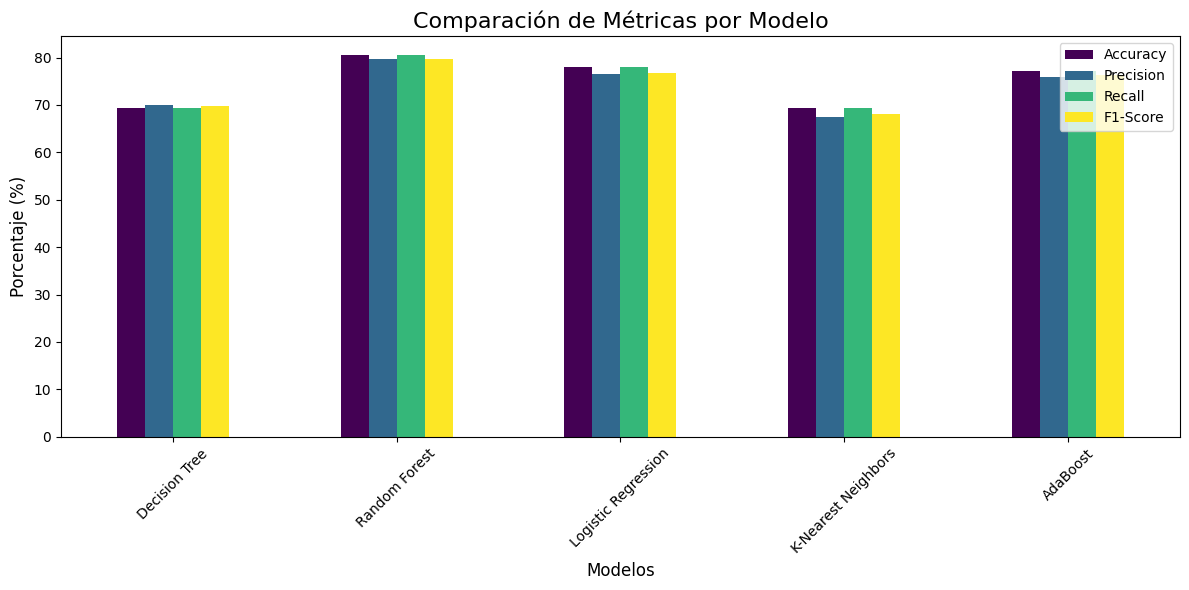
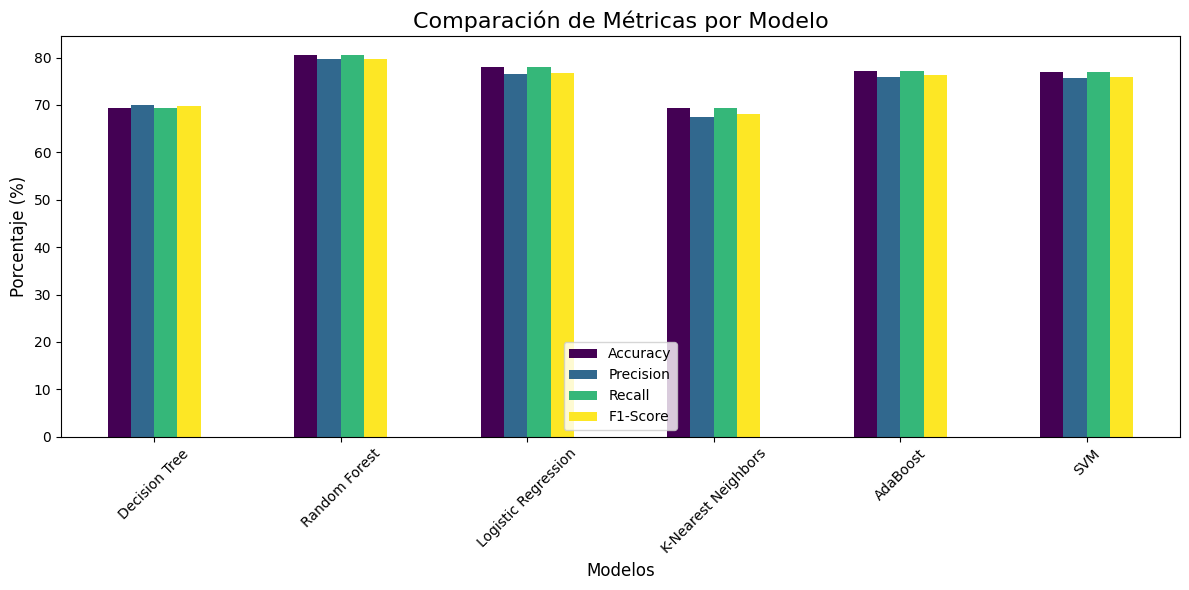
Versión funcional modelos y web

diff --git a/app/templates/menu.html b/app/templates/menu.html
@@ -1,0 +1,14 @@
+{% extends './index.html' %}
+
+{% block title %} Menu {% endblock %}
+
+{% block body %}
+    <h1>Menú principal</h1>
+
+    <ul>
+        <li><a href="{{ url_for('get_info') }}">Información del dataset</a></li>
+        <li><a href="{{ url_for('get_data') }}">Correlativos</a></li>
+        <li><a href="{{ url_for('images_data') }}">Imágenes generadas</a></li>
+        <li><a href="{{ url_for('analysis_data') }}">Resultados</a></li>
+    </ul>
+{% endblock %}

diff --git a/app/templates/data.html b/app/templates/data.html
@@ -8,6 +8,7 @@
 <h2>Mapa de calor</h2>
 <img src="{{ data.url_image }}" alt="Heatmap" style="width: 100%">
 
+<h2>Tabla de correlativos</h2>
 <table border="1" cellpadding="10">
     <thead>
         <tr>

diff --git a/app/app.py b/app/app.py
@@ -1,4 +1,4 @@
-from flask import Flask, render_template, jsonify, url_for
+from flask import Flask, render_template, jsonify, url_for, request, redirect, flash
 #----------------------------------------------------------------------------
 import pandas as pd
 import matplotlib
@@ -19,8 +19,11 @@ from sklearn import svm
 from sklearn.metrics import accuracy_score,f1_score,precision_score,recall_score
 from sklearn import metrics
 #----------------------------------------------------------------------------
+app = Flask(__name__)
+
 #Lectura del Dataset de Dropout
 data = pd.read_csv("app/dataset.csv")
+
 #data.head()
 data.rename(columns = {'Nacionality':'Nationality', 'Age at enrollment':'Age'}, inplace = True)
 data.isnull().sum()/len(data)*100
@@ -33,10 +36,9 @@ print(data["Target"].unique())
 data.corr()['Target']
 #----------------------------------------------------------------------------
 
-app = Flask(__name__)
-
 @app.route('/info')
 def get_info():
+
     data_json = []
 
     for i, col in enumerate(data.columns):
@@ -60,6 +62,7 @@ def get_info():
 
 @app.route('/data')
 def get_data():
+    
     data_json = []
 
     #Generación de heatmap
@@ -180,14 +183,15 @@ def analysis_data():
     lr = LogisticRegression(random_state=42)
     knn = KNeighborsClassifier(n_neighbors=3)
     abc = AdaBoostClassifier(n_estimators=50,learning_rate=1, random_state=0)
-    #svm = svm.SVC(kernel='linear', probability=True)
+    sm = svm.SVC(kernel='linear', probability=True)
+
 
     dtree.fit(X_train,y_train)
     rfc.fit(X_train,y_train)
     lr.fit(X_train,y_train)
     knn.fit(X_train,y_train)
     abc.fit(X_train, y_train)
-    #svm.fit(X_train, y_train)
+    sm.fit(X_train, y_train)
 
     models_results = []
     results = {}
@@ -202,7 +206,7 @@ def analysis_data():
         ("Logistic Regression", lr),
         ("K-Nearest Neighbors", knn),
         ("AdaBoost", abc),
-        #("SVM", svm)
+        ("SVM", sm)
     ]
 
     for nombre, modelo in modelos:
@@ -261,7 +265,7 @@ def analysis_data():
         (metrics.confusion_matrix(y_test, y_predicciones.get("Logistic Regression")), "Logistic Regression"),
         (metrics.confusion_matrix(y_test, y_predicciones.get("K-Nearest Neighbors")), "K-Nearest Neighbors"),
         (metrics.confusion_matrix(y_test, y_predicciones.get("AdaBoost")), "AdaBoost"),
-        #(metrics.confusion_matrix(y_test, y_predicciones.get("SVM")), "SVM")
+        (metrics.confusion_matrix(y_test, y_predicciones.get("SVM")), "SVM")
     ]
 
     class_names = ['Dropout', 'Enrolled', 'Graduate']
@@ -289,13 +293,12 @@ def analysis_data():
         'matrix': models_images
     }
 
-    #df_resultados = pd.DataFrame(resultados).T
     print(resultados)
     return render_template('models.html', data = resultados)
 
 @app.route('/')
 def index():
-    return render_template('index.html')
+    return render_template('menu.html')
 
 if __name__ == '__main__':
     app.run(debug = True)
